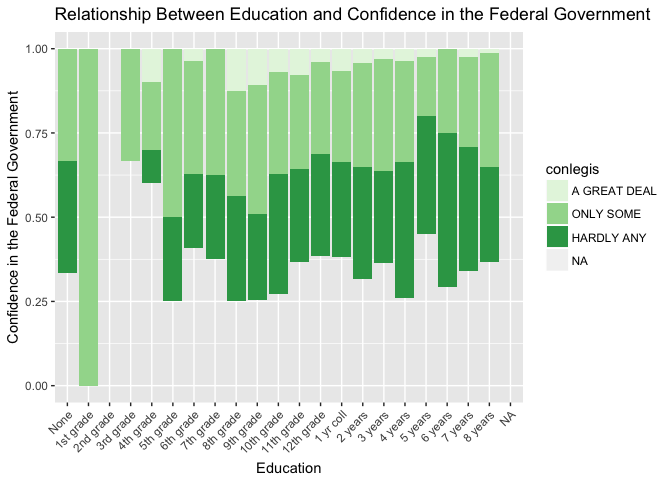
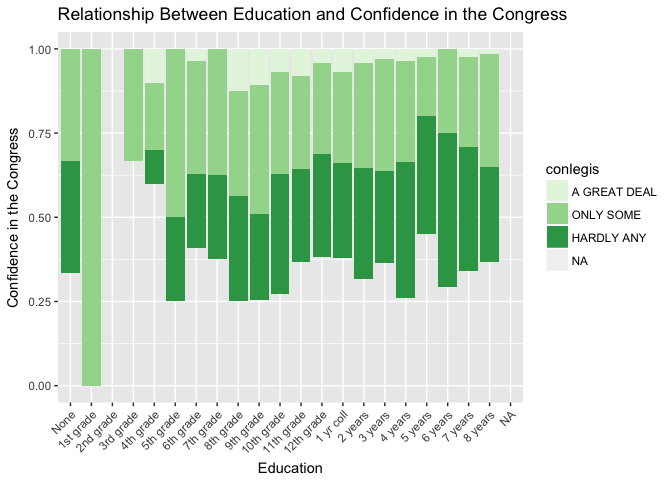
Final HW7

diff --git a/students/shi_mengchen/Assignment7/HW7_write-up.md b/students/shi_mengchen/Assignment7/HW7_write-up.md
@@ -141,7 +141,7 @@ gss %>%
   count(conlegis) %>%
   na.omit() %>%
   mutate(pct = n / sum(n)) %>%
-  with(pie(pct, labels = conlegis, clockwise = TRUE, main = "Confidence in the Federal Government"))
+  with(pie(pct, labels = conlegis, clockwise = TRUE, main = "Confidence in the Congress"))
 ```
 
 ![](HW7_write-up_files/figure-markdown_github-ascii_identifiers/unnamed-chunk-8-1.png)
@@ -190,8 +190,8 @@ gss %>%
   geom_histogram(stat="count", position = "fill", binwidth = 30)+
   scale_fill_brewer(palette = "Set4")+
   labs(x = "Education",
-       y = "Confidence in the Federal Government",
-       title = "Relationship Between Education and Confidence in the Federal Government")+
+       y = "Confidence in the Congress",
+       title = "Relationship Between Education and Confidence in the Congress")+
    theme(axis.text.x = element_text(angle = 45, hjust = 1))
 ```
 
